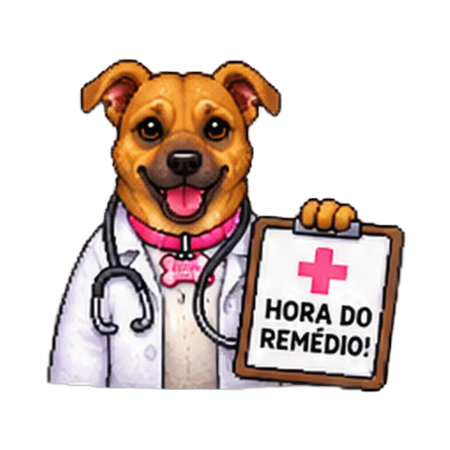
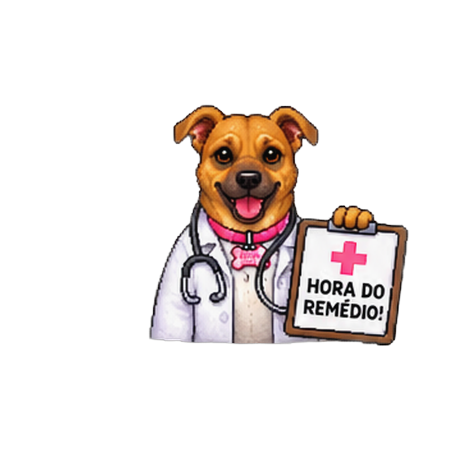
Corrige centralizacao do rosto na imagem hora-remedio (prancheta empurrava o rosto pra esquerda)

diff --git a/web/src/utils/versao.js b/web/src/utils/versao.js
@@ -1,4 +1,4 @@
 // Atualizo esse número toda vez que envio uma mudança —
 // serve pra você confirmar se o app realmente atualizou no celular.
-export const VERSAO = '1.15.3';
-export const VERSAO_DESCRICAO = 'Normaliza as 4 imagens no mesmo tamanho de moldura (evita pulo de escala)';
+export const VERSAO = '1.15.4';
+export const VERSAO_DESCRICAO = 'Centraliza o rosto na imagem hora-remedio (estava puxado pela prancheta)';
